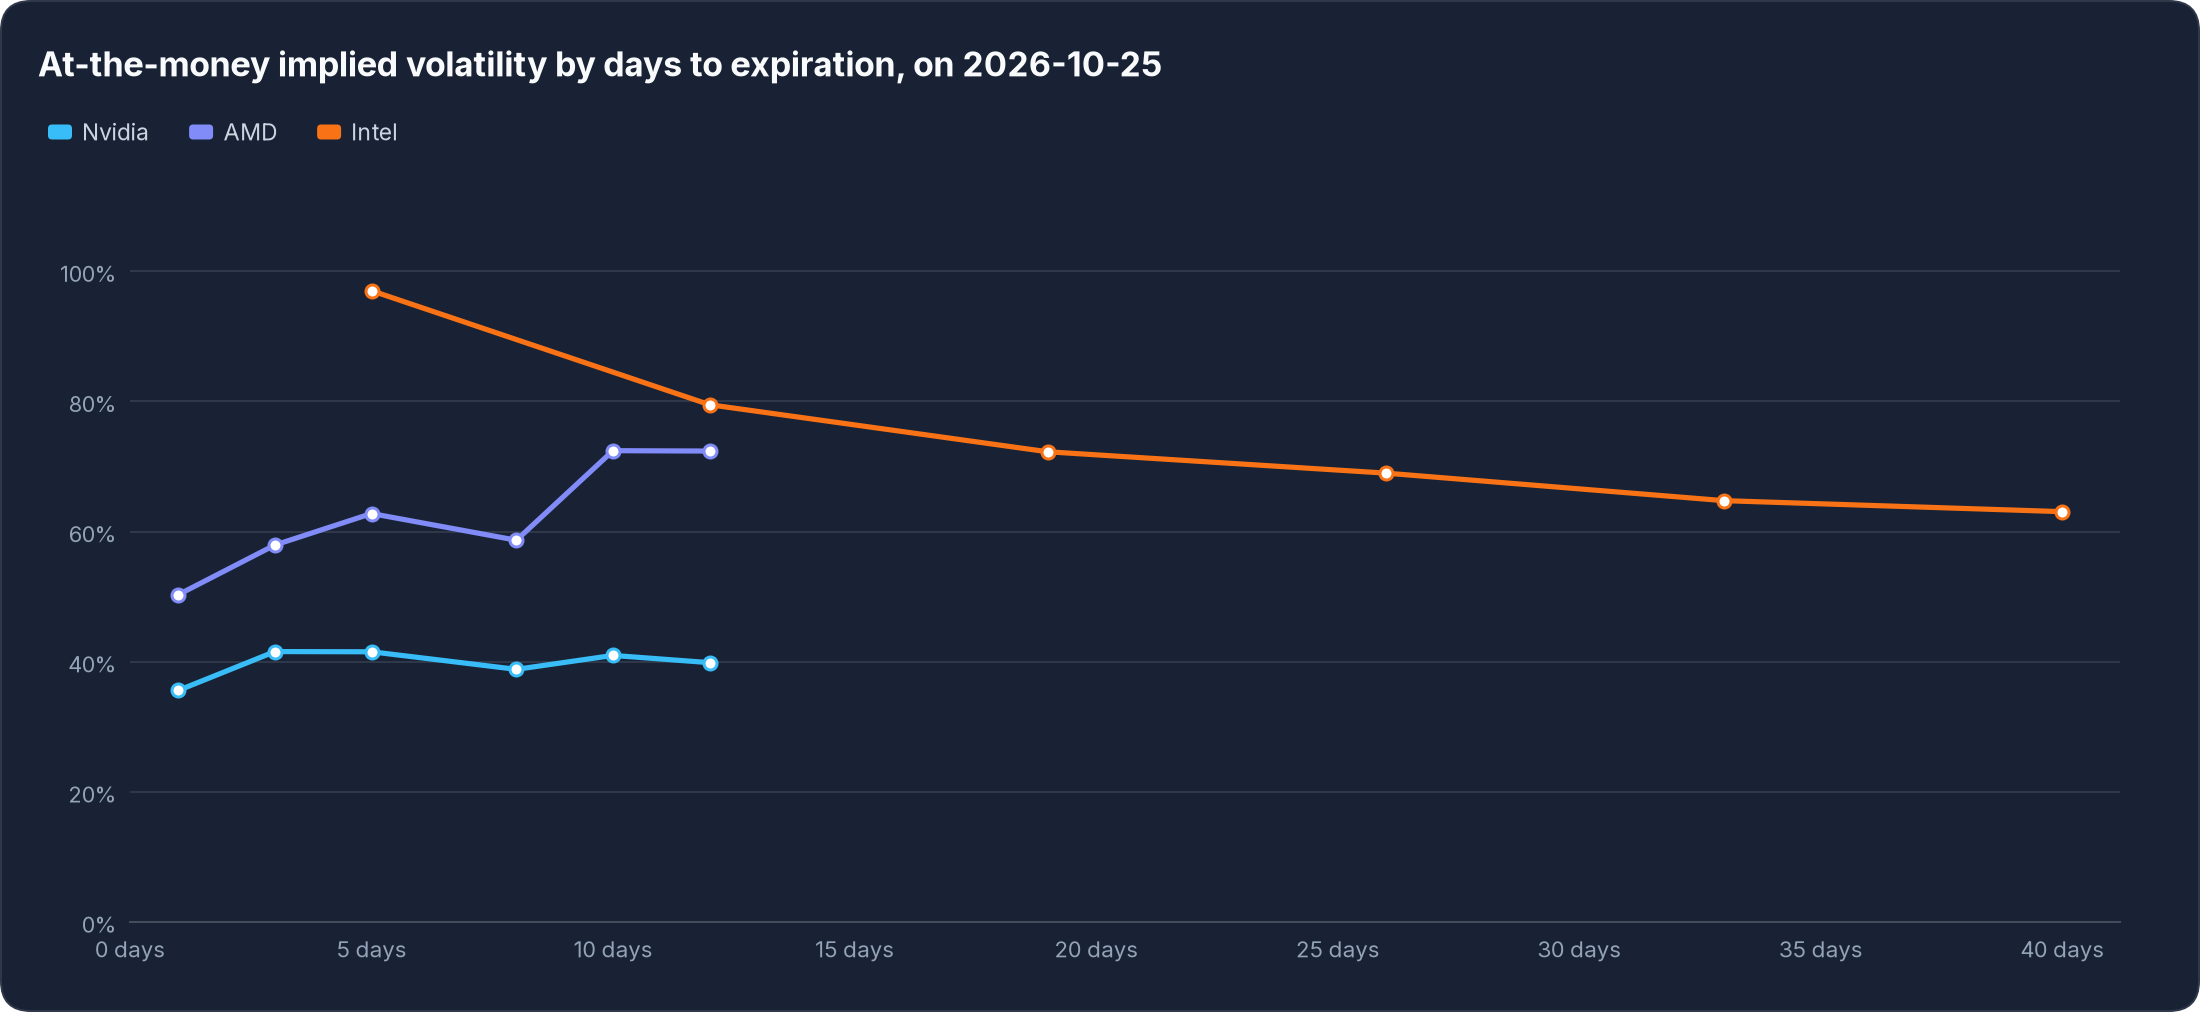
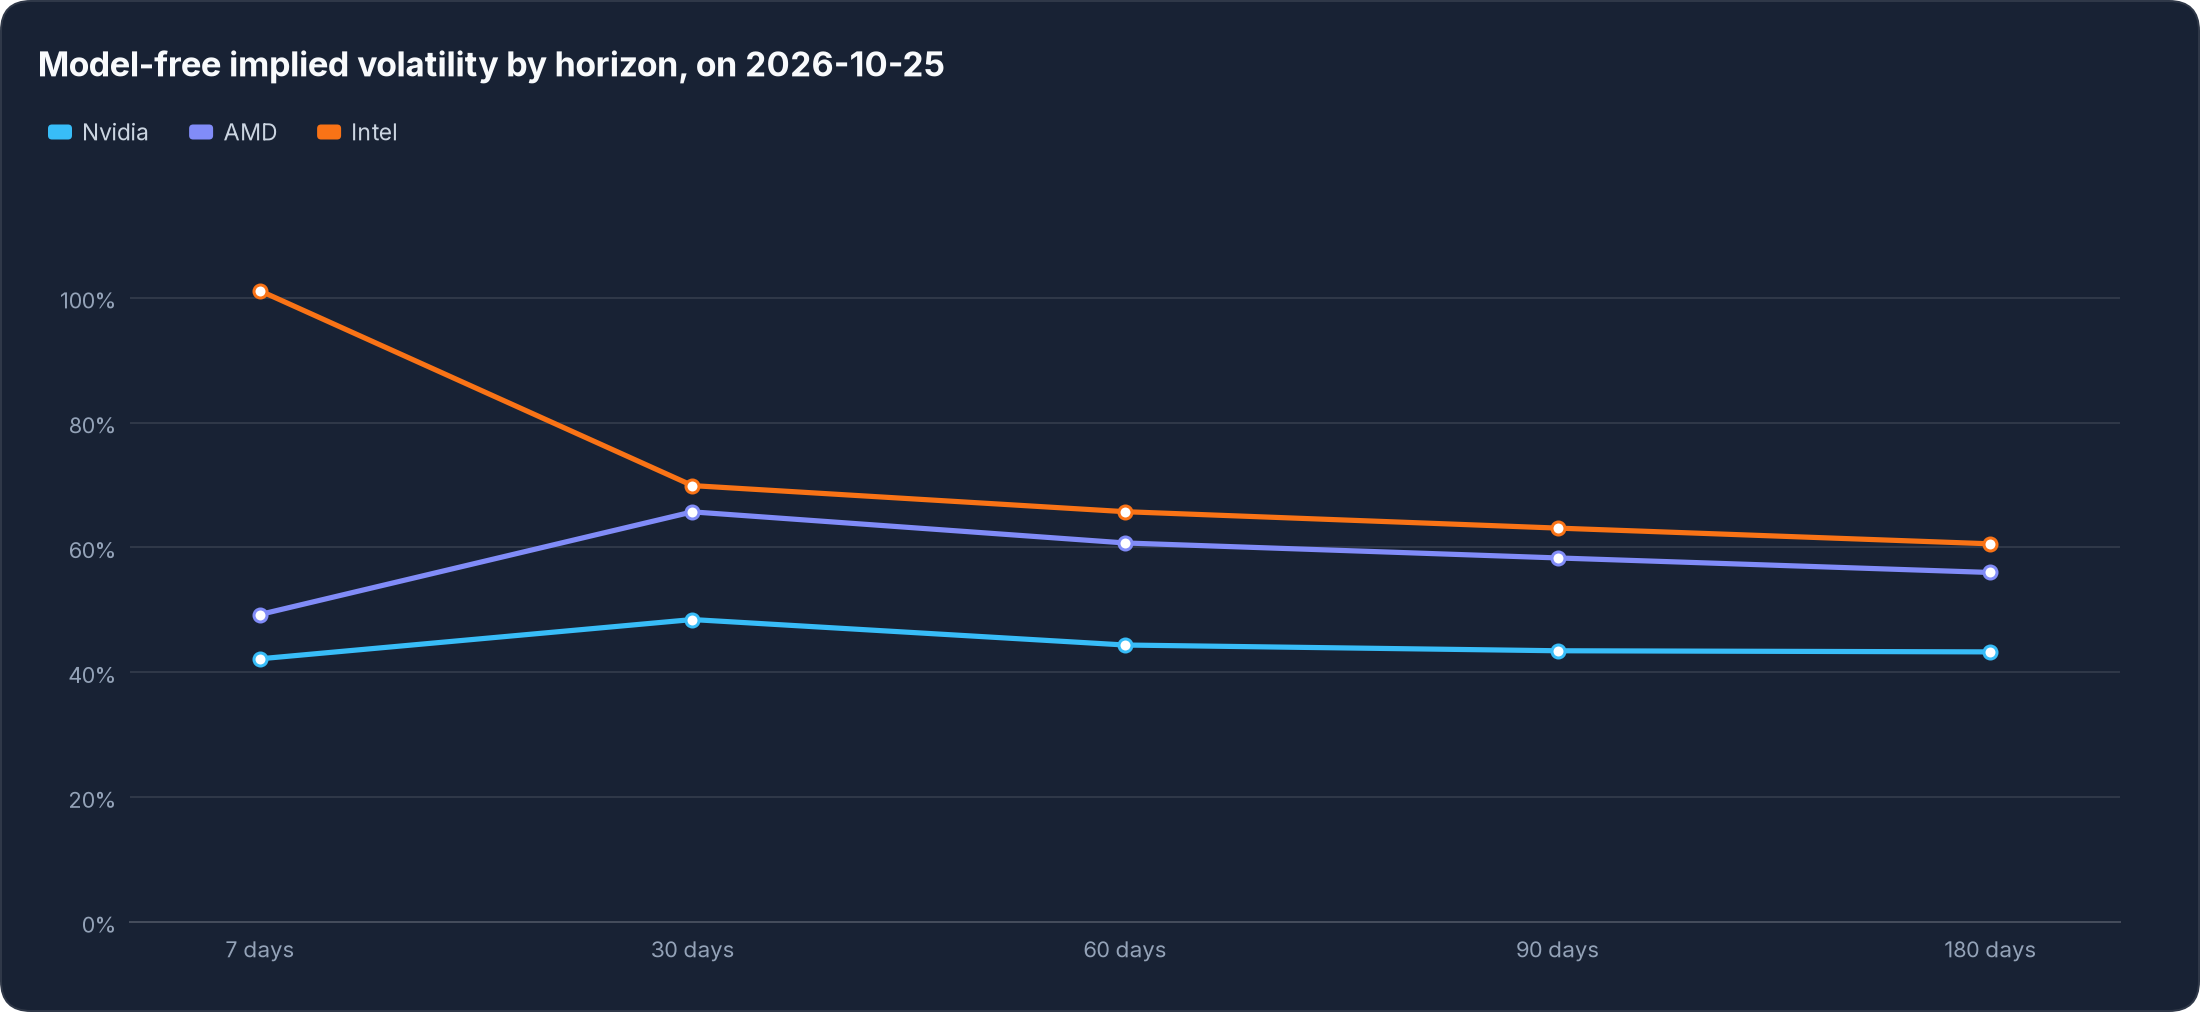
Compare the companies' implied volatility at fixed horizons
The option chapter uses the model-free implied volatility at 7, 30, 60, 90 and 180 days, interpolated between the expirations around each horizon, so all three companies have a value at every horizon even though they list different expirations.

diff --git a/README.md b/README.md
@@ -292,32 +292,39 @@ Together the two modules cover 70+ metrics, such as [Value at Risk](https://www.
 The past shows how much risk came with the returns; the option market puts a price on the risk ahead. The [options](https://www.jeroenbouma.com/projects/financetoolkit/docs/options) module prices options with Black-Scholes, the Binomial Model and others, calculates the Greeks up to the third order and reads the live option chains: the put-call ratio, max pain, dealer gamma exposure, the volatility skew and term structure and the implied move. As the chains are those of today, the Toolkit below runs up to today, and the numbers are those of the day this README was last updated:
 
 ```python
+import pandas as pd
+
 # Initialize the Toolkit up to today, as the option chains are live
 companies_today = Toolkit(["NVDA", "AMD", "INTC"], api_key="FINANCIAL_MODELING_PREP_KEY")
 
-# Get the at-the-money implied volatility of the six nearest expirations
-term_structure = companies_today.options.get_implied_volatility_term_structure(number_of_expirations=6)
+# The model-free implied volatility, the method behind the VIX, at fixed horizons
+implied_volatility = pd.concat(
+    {
+        days: companies_today.options.get_model_free_implied_volatility(days=days)
+        for days in [7, 30, 60, 90, 180]
+    },
+    names=["Days"],
+)
 
 # Show the results for Nvidia
-term_structure.loc["NVDA"]
+implied_volatility.xs("NVDA", level=1)
 ```
 
-For example, Nvidia's implied volatility for each expiration is shown below.
+As the companies list different expirations, the model-free implied volatility reads the expected variance from all out-of-the-money options of the two expirations around each horizon and interpolates between them, so all three are compared over exactly the same number of days. For example, Nvidia's implied volatility for each horizon is shown below.
 
-| Expiration   |   Days to Expiration |   At-the-Money Volatility |
-|:-------------|---------------------:|--------------------------:|
-| 2026-10-26   |                    1 |                    0.3558 |
-| 2026-10-28   |                    3 |                    0.4155 |
-| 2026-10-30   |                    5 |                    0.4152 |
-| 2026-11-02   |                    8 |                    0.3882 |
-| 2026-11-04   |                   10 |                    0.4096 |
-| 2026-11-06   |                   12 |                    0.3985 |
+|   Days | Near-Term Expiration   | Next-Term Expiration   |   Near-Term Volatility |   Next-Term Volatility |   Forward Price |   Model-Free Implied Volatility |
+|-------:|:-----------------------|:-----------------------|-----------------------:|-----------------------:|----------------:|--------------------------------:|
+|      7 | 2026-11-02             | 2026-11-04             |                 0.4282 |                 0.4372 |         211.274 |                          0.4216 |
+|     30 | 2026-11-20             | 2026-11-27             |                 0.5007 |                 0.4746 |         211.697 |                          0.4845 |
+|     60 | 2026-12-18             | 2027-01-15             |                 0.4471 |                 0.4356 |         212.126 |                          0.4437 |
+|     90 | 2027-01-15             | 2027-02-19             |                 0.4356 |                 0.4316 |         212.877 |                          0.4345 |
+|    180 | 2027-04-16             | 2027-05-21             |                 0.4349 |                 0.4253 |         215.128 |                          0.4327 |
 
-And below this term structure is plotted for each of the three companies.
+And below the implied volatility of each company is plotted for every horizon.
 
 <picture>
   <source media="(prefers-color-scheme: dark)" srcset="https://raw.githubusercontent.com/JerBouma/FinanceToolkit/main/assets/readme/options-market-dark.png">
-  <img alt="Implied Volatility Term Structure" src="https://raw.githubusercontent.com/JerBouma/FinanceToolkit/main/assets/readme/options-market-light.png">
+  <img alt="Model-Free Implied Volatility" src="https://raw.githubusercontent.com/JerBouma/FinanceToolkit/main/assets/readme/options-market-light.png">
 </picture>
 
 ## The Economic Environment
